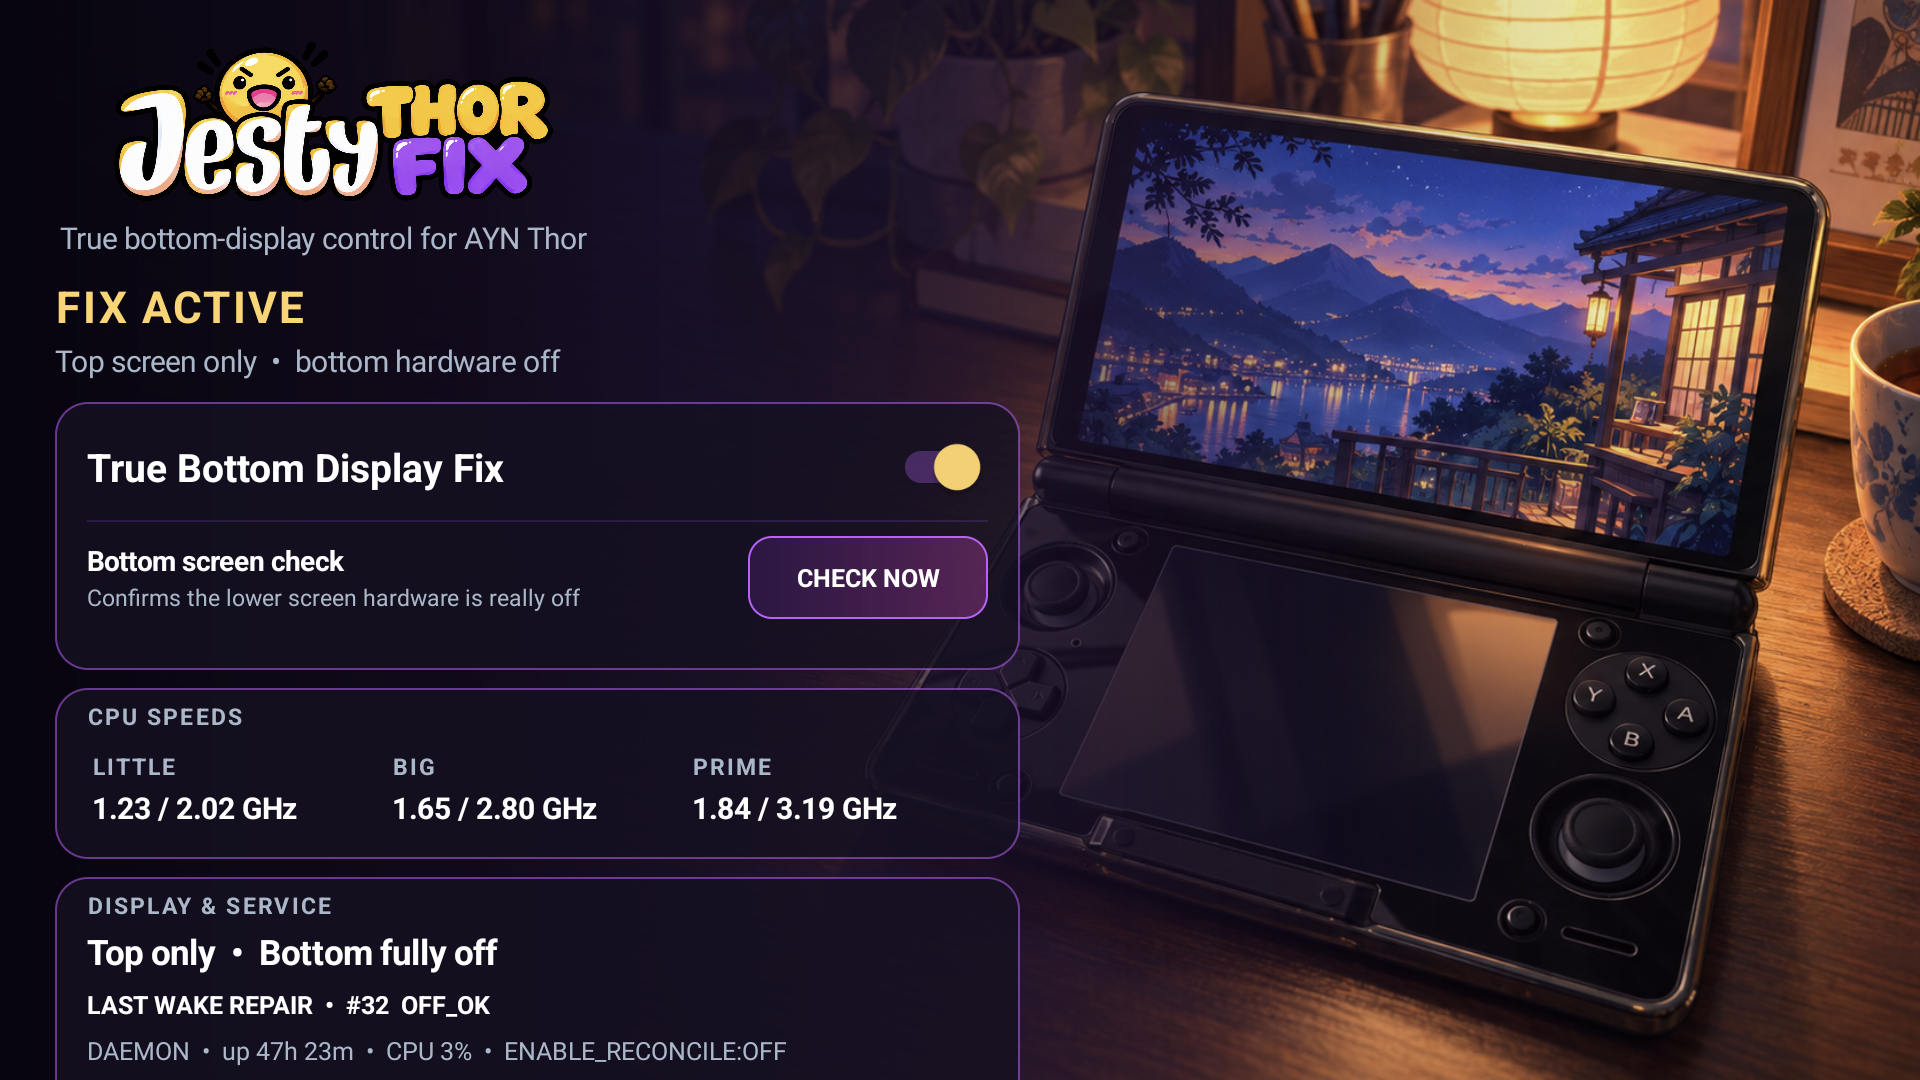
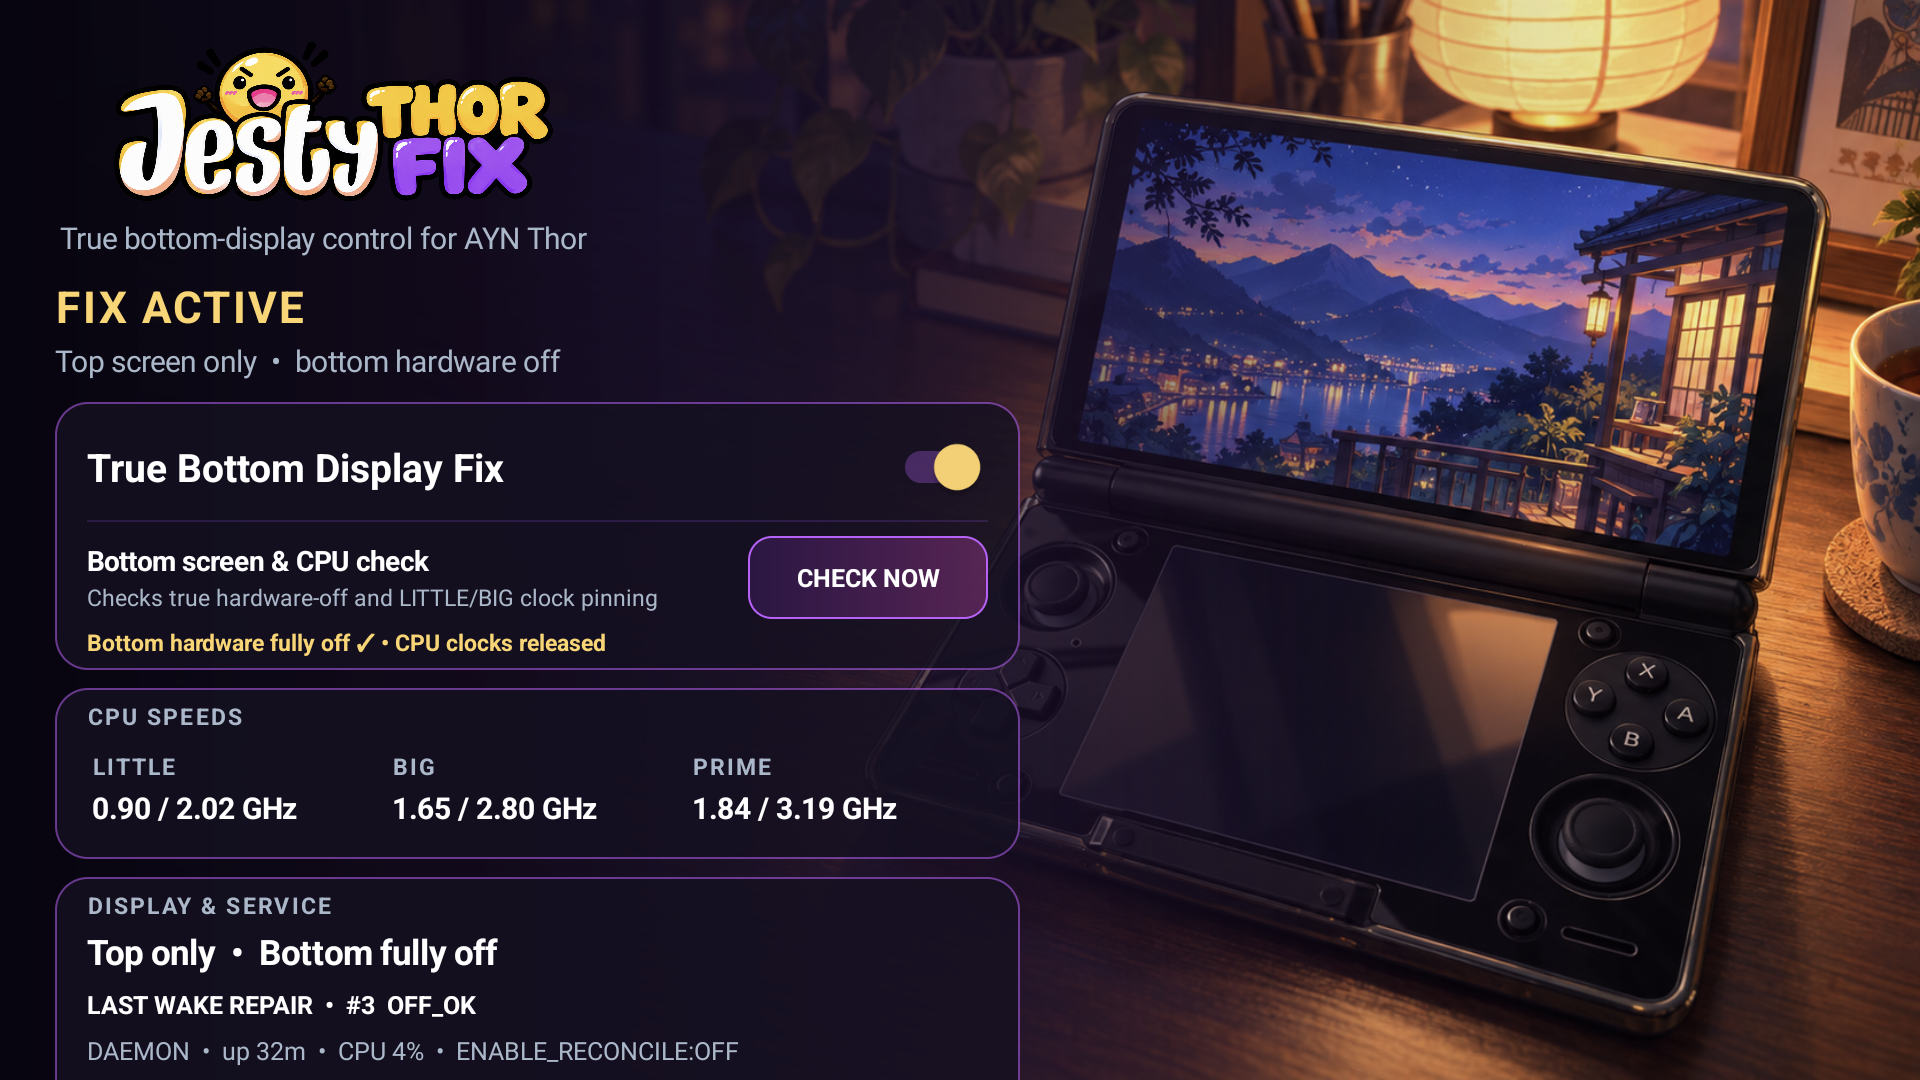
Release Thor Fix 1.0.1 CPU check

Changed region(s): [[0.0312, 0.4889, 0.3438, 0.6111], [0.125, 0.9167, 0.4062, 1.0], [0.0312, 0.7333, 0.0938, 0.7639]]

diff --git a/src/com/thor/displaypowertest/MainActivity.java b/src/com/thor/displaypowertest/MainActivity.java
@@ -130,6 +130,12 @@ public final class MainActivity extends Activity {
         root.addView(scroll, new FrameLayout.LayoutParams(panelWidth,
                 ViewGroup.LayoutParams.MATCH_PARENT, Gravity.START));
 
+        LinearLayout topActions = buildTopActions();
+        FrameLayout.LayoutParams actionParams = new FrameLayout.LayoutParams(
+                ViewGroup.LayoutParams.WRAP_CONTENT, dp(42), Gravity.TOP | Gravity.END);
+        actionParams.setMargins(0, dp(16), dp(18), 0);
+        root.addView(topActions, actionParams);
+
         LinearLayout content = new LinearLayout(this);
         content.setOrientation(LinearLayout.VERTICAL);
         content.setPadding(dp(24), dp(14), dp(24), dp(14));
@@ -163,9 +169,9 @@ public final class MainActivity extends Activity {
 
         LinearLayout verifyCopy = new LinearLayout(this);
         verifyCopy.setOrientation(LinearLayout.VERTICAL);
-        TextView verifyTitle = text("Bottom screen check", 12f, Color.WHITE, true);
+        TextView verifyTitle = text("Bottom screen & CPU check", 12f, Color.WHITE, true);
         verifyCopy.addView(verifyTitle);
-        TextView verifyHelp = text("Confirms the lower screen hardware is really off", 10f, MUTED, false);
+        TextView verifyHelp = text("Checks true hardware-off and LITTLE/BIG clock pinning", 10f, MUTED, false);
         verifyHelp.setPadding(0, dp(1), dp(8), 0);
         verifyCopy.addView(verifyHelp);
         verifyRow.addView(verifyCopy, new LinearLayout.LayoutParams(0, -2, 1f));
@@ -217,35 +223,40 @@ public final class MainActivity extends Activity {
         warningValue.setPadding(0, dp(5), 0, 0);
         detailPanel.addView(warningValue);
         content.addView(detailPanel);
-        content.addView(buildSupportFooter());
         return root;
     }
 
-    private View buildSupportFooter() {
-        LinearLayout footer = panel();
-        TextView title = text("JESTY APPS ARE FREE & OPEN SOURCE", 10f, MUTED, true);
-        title.setLetterSpacing(0.07f);
-        footer.addView(title);
-        TextView copy = text("Support device testing or star the project.", 11f, Color.WHITE, false);
-        copy.setPadding(0, dp(3), 0, dp(4));
-        footer.addView(copy);
+    private LinearLayout buildTopActions() {
+        LinearLayout actions = new LinearLayout(this);
+        actions.setOrientation(LinearLayout.HORIZONTAL);
+        actions.setGravity(Gravity.CENTER_VERTICAL);
 
-        LinearLayout links = row();
-        TextView support = footerLink("SUPPORT JESTY");
+        TextView support = topAction("\u2615  SUPPORT");
         support.setOnClickListener(v -> openExternal("https://buymeacoffee.com/jesty"));
-        links.addView(support, new LinearLayout.LayoutParams(0, dp(34), 1f));
-        TextView github = footerLink("STAR ON GITHUB");
+        actions.addView(support);
+
+        TextView github = topAction("\u2605  GITHUB");
         github.setOnClickListener(v -> openExternal("https://github.com/JestyLabs/Jesty-Thor-Fix"));
-        links.addView(github, new LinearLayout.LayoutParams(0, dp(34), 1f));
-        footer.addView(links);
-        return footer;
+        LinearLayout.LayoutParams githubParams = new LinearLayout.LayoutParams(
+                ViewGroup.LayoutParams.WRAP_CONTENT, dp(38));
+        githubParams.setMargins(dp(8), 0, 0, 0);
+        actions.addView(github, githubParams);
+        return actions;
     }
 
-    private TextView footerLink(String label) {
-        TextView link = text(label, 10f, AMBER, true);
-        link.setGravity(Gravity.CENTER_VERTICAL);
-        link.setPadding(dp(4), 0, dp(4), 0);
-        return link;
+    private TextView topAction(String label) {
+        TextView action = text(label, 10f, AMBER, true);
+        action.setGravity(Gravity.CENTER);
+        action.setPadding(dp(14), 0, dp(14), 0);
+        GradientDrawable bubble = new GradientDrawable(
+                GradientDrawable.Orientation.LEFT_RIGHT,
+                new int[]{0xE0241338, 0xE0441B55});
+        bubble.setCornerRadius(dp(21));
+        bubble.setStroke(dp(1), 0xCCC45CFF);
+        action.setBackground(bubble);
+        action.setLayoutParams(new LinearLayout.LayoutParams(
+                ViewGroup.LayoutParams.WRAP_CONTENT, dp(38)));
+        return action;
     }
 
     private void openExternal(String url) {
@@ -309,17 +320,32 @@ public final class MainActivity extends Activity {
 
     private void verifyDrm() {
         verifyResult.setTextColor(MUTED);
-        verifyResult.setText("Checking lower-screen hardware\u2026");
+        verifyResult.setText("Checking lower-screen hardware and CPU clocks\u2026");
         new Thread(() -> {
             try {
                 final Map<String, String> values = parse(SocketClient.request('V', 1800));
+                final Map<String, String> telemetry = parse(SocketClient.request('Q', 1800));
                 final boolean topOn = "1".equals(values.get("crtc181"));
                 final boolean bottomOff = "0".equals(values.get("crtc243"));
-                final String friendly = topOn && bottomOff
-                        ? "Last check: bottom screen fully off \u2713"
-                        : "Last check: bottom screen hardware still active";
+                final long littleCur = number(telemetry, "little_cur");
+                final long littleMax = number(telemetry, "little_max");
+                final long bigCur = number(telemetry, "big_cur");
+                final long bigMax = number(telemetry, "big_max");
+                final boolean coresPinned = ratio(littleCur, littleMax) >= 0.95
+                        && ratio(bigCur, bigMax) >= 0.95;
+                final String friendly;
+                if (topOn && bottomOff) {
+                    friendly = "Bottom hardware fully off \u2713"
+                            + (coresPinned ? " \u2022 CPU clocks currently high" : " \u2022 CPU clocks released");
+                } else if (coresPinned) {
+                    friendly = "STOCK BUG CONFIRMED \u2022 LITTLE/BIG PINNED AT MAX";
+                } else {
+                    friendly = "Bottom hardware active \u2022 LITTLE/BIG can stay pinned";
+                }
                 final String detail = "Top hardware " + (topOn ? "on" : "off")
-                        + "  \u2022  Bottom hardware " + (bottomOff ? "off" : "on");
+                        + "  \u2022  Bottom hardware " + (bottomOff ? "off" : "on")
+                        + "  \u2022  LITTLE " + clock(littleCur, littleMax)
+                        + "  \u2022  BIG " + clock(bigCur, bigMax);
                 runOnUiThread(() -> {
                     verifyResult.setTextColor(topOn && bottomOff ? AMBER : RED);
                     verifyResult.setText(friendly);
@@ -362,7 +388,9 @@ public final class MainActivity extends Activity {
         stateText.setTextColor(enabled ? AMBER : Color.WHITE);
         boolean bottomPowered = "1".equals(values.get("power"));
         stateDetail.setText(modeDescription(values.get("mode")) + "  \u2022  "
-                + (bottomPowered ? "bottom hardware active" : "bottom hardware off"));
+                + (bottomPowered
+                ? "bottom hardware active \u2022 LITTLE/BIG can stay pinned"
+                : "bottom hardware off"));
 
         long littleCur = number(values, "little_cur"), littleMax = number(values, "little_max");
         long bigCur = number(values, "big_cur"), bigMax = number(values, "big_max");
@@ -383,7 +411,9 @@ public final class MainActivity extends Activity {
                 && ratio(littleCur, littleMax) >= 0.95
                 && ratio(bigCur, bigMax) >= 0.95;
         possibleLockSamples = suspicious ? possibleLockSamples + 1 : 0;
-        warningValue.setText(possibleLockSamples >= 10 ? "\u26A0 POSSIBLE CLOCK LOCK" : "");
+        warningValue.setText(possibleLockSamples >= 10
+                ? "STOCK BUG CONFIRMED \u2022 LITTLE/BIG PINNED AT MAX"
+                : "");
     }
 
     private void startTelemetry() {
@@ -597,7 +627,9 @@ public final class MainActivity extends Activity {
         if ("1".equals(mode) && !bottomPowered) return "Top only  \u2022  Bottom fully off";
         if ("0".equals(mode)) return "Both screens available";
         if ("2".equals(mode)) return "Bottom screen only";
-        if ("1".equals(mode)) return "Top only  \u2022  Bottom still active";
+        if ("1".equals(mode)) {
+            return "Top only  \u2022  Bottom still active  \u2022  LITTLE/BIG may stay pinned";
+        }
         return "Display state unavailable";
     }
 }

diff --git a/README.md b/README.md
@@ -21,7 +21,7 @@
 </p>
 
 <p align="center">
-  <a href="https://github.com/JestyLabs/Jesty-Thor-Fix/releases/tag/v1.0.0"><strong>Download APK</strong></a>
+  <a href="https://github.com/JestyLabs/Jesty-Thor-Fix/releases/tag/v1.0.1"><strong>Download APK</strong></a>
   · <a href="#what-does-it-fix">How it works</a>
   · <a href="docs/BENCHMARKS.md">Measurements and raw data</a>
   · <a href="https://www.buymeacoffee.com/jesty">☕ Support development</a>
@@ -66,7 +66,8 @@ screen is actually turned off.**
 
 In this real-device capture, stock TOP-only still reports the bottom hardware
 active while LITTLE is pinned at **2.02 / 2.02 GHz** and BIG at
-**2.71 / 2.71 GHz**, despite only a low dashboard load.
+**2.71 / 2.71 GHz**, despite only a low dashboard load. The one-tap
+**Bottom screen & CPU check** now verifies both conditions together.
 
 And for normal use, it is designed to be almost completely hands-off:
 
@@ -152,12 +153,13 @@ bottom CRTC 243 inactive
 
 ## Installation
 
-1. Download `Jesty-Thor-Fix-1.0.0.apk` from the
-   [GitHub release](https://github.com/JestyLabs/Jesty-Thor-Fix/releases/tag/v1.0.0).
+1. Download `Jesty-Thor-Fix-1.0.1.apk` from the
+   [GitHub release](https://github.com/JestyLabs/Jesty-Thor-Fix/releases/tag/v1.0.1).
 2. Install the APK.
 3. Open **Jesty Thor Fix** once and confirm `FIX ACTIVE`.
-4. Select TOP mode and use **Bottom screen check -> Check now**. The app should
-   report that the bottom screen is fully off. Technical DRM details remain in
+4. Select TOP mode and use **Bottom screen & CPU check -> Check now**. The app
+   should report that the bottom hardware is fully off and show whether
+   LITTLE/BIG clocks are released or pinned. Technical DRM details remain in
    the validation documentation.
 
 ### You do not need to

diff --git a/docs/DEVICE-VALIDATION.md b/docs/DEVICE-VALIDATION.md
@@ -44,3 +44,19 @@ The exact signed `1.0.0` APK was installed in place on the same physical Thor.
 This is a focused stable-release smoke test. The complete rapid-wake and timing
 regression matrix remains documented above for 0.32; the 1.0.0 refresh does not
 change that display-control implementation or its timing.
+
+## 1.0.1 focused UI and telemetry check
+
+The signed `1.0.1` patch was installed in place on the same physical Thor.
+
+- [x] Package identity was `versionCode=38`, `versionName=1.0.1`.
+- [x] Signing certificate matched the stable update line.
+- [x] TOP with fix OFF/native returned `power=1` with both CRTCs active.
+- [x] The manual check identified LITTLE and BIG pinned at their maximums.
+- [x] TOP with fix ON returned `power=0`, CRTC 181 active, CRTC 243 inactive.
+- [x] The manual check reported the bottom hardware fully off and clocks
+  released.
+- [x] A full app stop and relaunch preserved and rendered each selected state.
+
+This patch changes dashboard copy and combines existing DRM/CPU telemetry in
+one manual check. Display control, wake repair, and timing code are unchanged.

diff --git a/docs/RELEASE-NOTES-1.0.1.md b/docs/RELEASE-NOTES-1.0.1.md
@@ -1,0 +1,29 @@
+# Jesty Thor Fix 1.0.1
+
+This patch makes the Thor's stock TOP-only bug much easier to understand and
+verify without technical tools.
+
+## What changed
+
+- **Bottom screen & CPU check** now verifies the lower display hardware and
+  current LITTLE/BIG frequencies together.
+- Stock TOP-only explicitly explains that a black lower panel can still have
+  active hardware and keep LITTLE/BIG cores pinned.
+- A confirmed low-load lock is shown clearly as
+  `STOCK BUG CONFIRMED - LITTLE/BIG PINNED AT MAX`.
+- Compact Support and GitHub bubbles now sit in the top-right corner.
+
+## What did not change
+
+Display control, wake repair, timing, governors, frequency limits, and the
+privileged bridge are unchanged from 1.0.0.
+
+## Artifact
+
+- Version: `1.0.1` (`versionCode 38`)
+- APK: `Jesty-Thor-Fix-1.0.1.apk`
[1 lines of base64/hex data omitted]
+- Signing certificate SHA-256:
[1 lines of base64/hex data omitted]
+
+No functionality is locked behind donations.

diff --git a/docs/RELEASE-INTEGRITY.md b/docs/RELEASE-INTEGRITY.md
@@ -66,3 +66,17 @@ inactive. BOTH restored `power=1` and both CRTCs. Removing the app from Recents
 did not change the true-off state; the following sleep/wake cycle repaired to
 `OFF_OK`. A normal reboot with the fix enabled restored TOP true-off before the
 dashboard was opened.
+
+## Stable 1.0.1 patch
+
+- Package: `com.thor.displaypowertest`
+- Version code: `38`
+- Version name: `1.0.1`
+- APK: `Jesty-Thor-Fix-1.0.1.apk`
[2 lines of base64/hex data omitted]
+- Verified signing schemes: APK Signature Scheme v1, v2, and v3.
+
+The signed patch was installed in place and checked in native TOP and Jesty
+true-off states. It changes only user-facing status/check behavior and top
+action placement; display transitions and wake-repair timing are unchanged.

diff --git a/docs/LIVE-RESULTS.md b/docs/LIVE-RESULTS.md
@@ -52,3 +52,15 @@ Device identifiers and raw logs have been removed from this public summary.
 
 The refreshed dashboard screenshots in the README were captured from this
 installed artifact. Device identifiers and raw system logs are not published.
+
+## 1.0.1 CPU-check patch
+
+- Installed in place as `versionCode=38`, `versionName=1.0.1` with the same
+  signing certificate as the stable update line.
+- With the fix disabled in TOP mode, the exact APK reported `power=1`,
+  `crtc181=1`, `crtc243=1`, LITTLE `2.02/2.02 GHz`, and BIG
+  `2.71/2.71 GHz`; the one-tap check displayed `STOCK BUG CONFIRMED`.
+- With the fix enabled, the exact APK reported `power=0`, `crtc181=1`,
+  `crtc243=0`, and the one-tap check displayed that the lower hardware was
+  fully off and CPU clocks were released.
+- A full app stop and relaunch preserved and rendered each selected state.

diff --git a/CHANGELOG.md b/CHANGELOG.md
@@ -1,5 +1,17 @@
 # Changelog
 
+## 1.0.1
+
+- Made the stock TOP-only warning explicit: a black lower panel can still have
+  active display hardware and keep LITTLE/BIG cores pinned.
+- Extended **Bottom screen & CPU check** to verify both DRM state and current
+  LITTLE/BIG frequencies in one tap.
+- Preserved the continuous low-load clock-lock detector and made its confirmed
+  warning visible as `STOCK BUG CONFIRMED`.
+- Kept display control, wake repair, timing, and privileged bridge behavior
+  unchanged from 1.0.0.
+- Bumped the patch update to versionCode 38 / versionName 1.0.1.
+
 ## 1.0.0
 
 - Promoted the tested Thor fix to the first stable public release.
